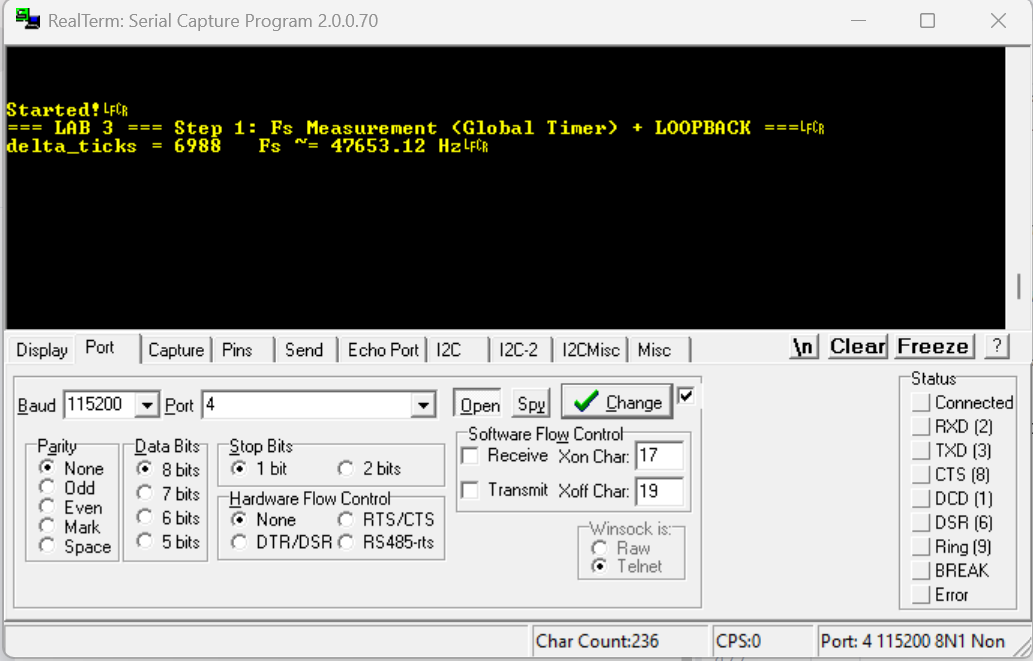
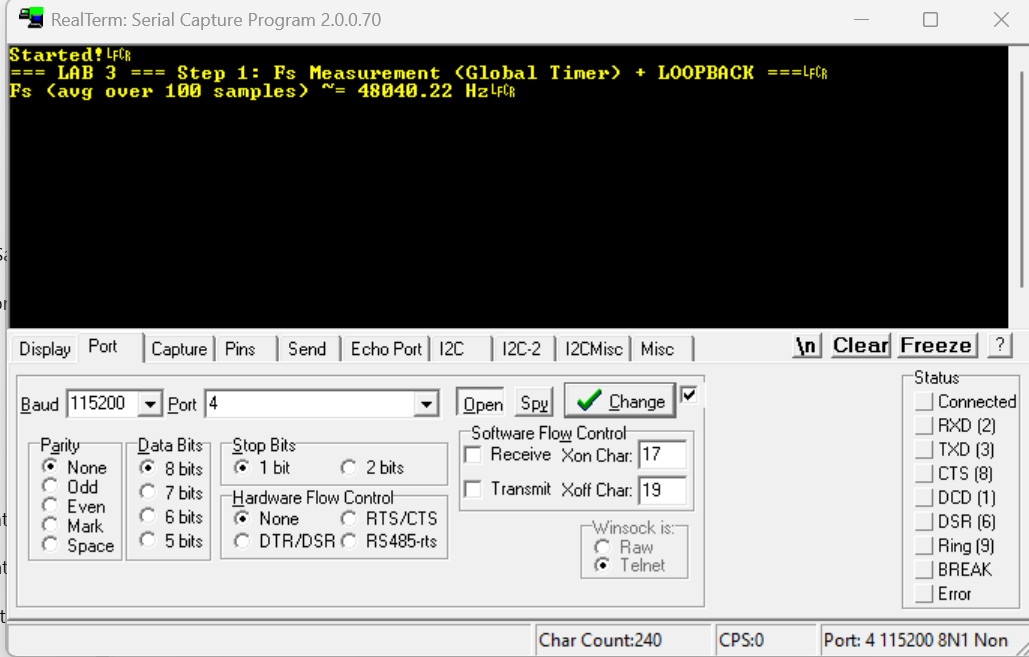
update lab3 STEP 3

Changed region(s): [[0.0, 0.0, 1.0, 1.0]]

diff --git a/Lab 3/lab3_step1_loopback.c b/Lab 3/lab3_step1_loopback.c
@@ -126,7 +126,8 @@
 #define GLOBAL_TMR_BASEADDR          XPAR_PS7_GLOBALTIMER_0_S_AXI_BASEADDR
 
 #define GTIMER_CONTROL_OFFSET        0x08   // Offset of the Global Timer control register (enable, auto-increment)
-#define GLOBAL_TMR_FREQ              333000000  // Global Timer clock frequency: CPU/2 = 333 MHz
+#define CPU_FREQ_HZ        667000000   // ARM Cortex-A9 CPU frequency
+#define GLOBAL_TMR_FREQ    (CPU_FREQ_HZ / 2)   // Global Timer = CPU / 2
 
 /* --------------------------------------------------------------------------
  *  GLOBAL TIMER – ENABLE & READOUT
@@ -312,7 +313,7 @@ return data;
 }
 
 
-// FIR FIFO initialized not used in STEP 1
+// FIR FIFO initialized not used in STEP 1 kept for Step 2–3
 
 void initialize_FIFO(u32 fifoAddr){
 	Xil_Out32(AUDIO_FIFO + 0x2c, 0);
@@ -381,6 +382,10 @@ int main()
 
     u32 t0 = 0, t1 = 0;   // timer snapshots
     int j = 0;            // loop counter for delayed measurement
+    #define N_SAMPLES  100        // number of samples used for Fs averaging
+
+    u64 accum_ticks = 0;          // accumulator for timer deltas
+    int sample_cnt = 0;           // number of measured deltas
 
 
     /* --------------------------------------------------------------------------
@@ -399,86 +404,101 @@ int main()
 
     while (1)
     {
-        /* Read one stereo sample from the I²S RX FIFO */
+        /* ----------------------------------------------------------------------
+         *  AUDIO ACQUISITION (BLOCKING)
+         *
+         *  One stereo audio frame (Left + Right) is synchronously acquired
+         *  from the I²S RX FIFO. The blocking behavior guarantees that
+         *  samples are processed at the exact rate imposed by the codec,
+         *  which is a necessary condition for reliable timing measurements
+         *  and real-time audio loopback.
+         * ---------------------------------------------------------------------- */
         u32 L = I2SFifoRead(AUDIO_FIFO);
         u32 R = I2SFifoRead(AUDIO_FIFO);
 
-        /**************************************************************************
-         * CORRECT READOUT OF THE 32-BIT (LSB) GLOBAL TIMER COUNTER
+        /* ----------------------------------------------------------------------
+         *  SAMPLING FREQUENCY MEASUREMENT (Fs)
          *
-         *  In the reference code provided by the instructor:
-         *      times[0] = Xil_In32(GLOBAL_TMR_BASEADDR);
+         *  The sampling period is measured using the ARM Cortex-A9 Global
+         *  Timer by computing the elapsed timer ticks between two consecutive
+         *  audio frames. To improve measurement robustness and reduce jitter,
+         *  the measurement is averaged over N_SAMPLES consecutive periods.
          *
-         *  → This reads the *base address*, which corresponds to the CONTROL
-         *    register, not the counter. Since the CONTROL register does not
-         *    increment, the returned value is always 0 → no valid measurement.
-         *
-         *  Correct approach:
-         *      Xil_In32(GLOBAL_TMR_BASEADDR + GTIMER_COUNTER_LOWER_OFFSET)
-         *
-         *  This retrieves the actual tick count from the lower 32 bits
-         *  of the Global Timer.
-         **************************************************************************/
-
-        /* ------------------------------------------------------------------
-         *  CORRECT TIMER READOUT (required by the assignment)
-         *
-         *  The counter LSB is mapped at:
-         *
-         *      GLOBAL_TMR_BASEADDR + GTIMER_COUNTER_LOWER_OFFSET
-         *
-         *  The base address alone must never be used.
-         * ------------------------------------------------------------------ */
-
-        if (j == 300)
+         *  A delay of j >= 300 iterations is introduced to ensure that:
+         *    • the audio pipeline is fully initialized
+         *    • transient effects at startup are avoided
+         * ---------------------------------------------------------------------- */
+        if (j >= 300 && sample_cnt < N_SAMPLES)
+        {
+            /* Timer snapshot at the beginning of one sampling period */
             t0 = Xil_In32(GLOBAL_TMR_BASEADDR + GTIMER_COUNTER_LOWER_OFFSET);
 
-        if (j == 301)
-        {
+            /* ------------------------------------------------------------------
+             *  Acquisition of the next stereo frame.
+             *
+             *  The time elapsed between t0 and t1 corresponds to exactly one
+             *  sampling period Ts imposed by the I²S/codec subsystem.
+             * ------------------------------------------------------------------ */
+            u32 L_tmp = I2SFifoRead(AUDIO_FIFO);
+            u32 R_tmp = I2SFifoRead(AUDIO_FIFO);
+
+            /* Timer snapshot at the end of the sampling period */
             t1 = Xil_In32(GLOBAL_TMR_BASEADDR + GTIMER_COUNTER_LOWER_OFFSET);
-            u32 delta = t1 - t0;
 
-            /**********************************************************************
-             * CORRECT SAMPLING FREQUENCY (Fs) COMPUTATION
-             *
-             *  CPU clock      = 667 MHz
-             *  Global Timer   = CPU/2 = 333 MHz
-             *
-             *  Therefore:
-             *      1 tick = 1 / 333e6 ≈ 3 ns
-             *
-             *  Sampling frequency:
-             *      Fs = TIMER_CLOCK / delta
-             *         = 333 MHz / delta
-             *
-             **********************************************************************/
+            /* Accumulate elapsed timer ticks for averaging */
+            accum_ticks += (t1 - t0);
+            sample_cnt++;
 
+            /* Forward the additionally acquired samples to preserve continuity
+             * of the real-time audio stream during the measurement phase */
+            I2SFifoWrite(AUDIO_FIFO, L_tmp);
+            I2SFifoWrite(AUDIO_FIFO, R_tmp);
+        }
 
-            float Fs = (float)GLOBAL_TMR_FREQ / (float)delta;
+        /* ----------------------------------------------------------------------
+         *  FINAL Fs COMPUTATION AND REPORTING
+         *
+         *  The average sampling period is computed as:
+         *
+         *      avg_delta = accum_ticks / N_SAMPLES
+         *
+         *  Since the Global Timer runs at CPU_FREQUENCY / 2, the sampling
+         *  frequency is obtained as:
+         *
+         *      Fs = GLOBAL_TMR_FREQ / avg_delta
+         *
+         *  UART output is performed only once, outside the timing-critical
+         *  measurement window, to avoid perturbing the results.
+         * ---------------------------------------------------------------------- */
+        if (sample_cnt == N_SAMPLES)
+        {
+            float avg_delta = (float)accum_ticks / (float)N_SAMPLES;
+            float Fs = (float)GLOBAL_TMR_FREQ / avg_delta;
+
             int Fs100 = (int)(Fs * 100);
-
-            /**********************************************************************
-             * NON-INTRUSIVE PRINTING
-             *
-             *  In the initial version, printing inside initialization functions
-             *  introduced significant delays → invalid measurements.
-             *
-             *  Now printing occurs only after t0 and t1 are collected, ensuring
-             *  no interference with the timing-critical section.
-             **********************************************************************/
-
-            xil_printf("delta_ticks = %u   Fs ~= %d.%02d Hz\n\r",
-                       delta,
+            xil_printf("Fs (avg over %d samples) ~= %d.%02d Hz\n\r",
+                       N_SAMPLES,
                        Fs100 / 100,
                        Fs100 % 100);
 
+            /* Prevent further printing */
+            sample_cnt++;
         }
 
-        /* Audio passthrough (loopback) */
+        /* ----------------------------------------------------------------------
+         *  REAL-TIME AUDIO LOOPBACK
+         *
+         *  The originally acquired stereo sample is immediately forwarded
+         *  to the I²S TX FIFO, implementing a direct IN → OUT passthrough.
+         *  This confirms correct end-to-end operation of the audio chain:
+         *
+         *      ADC → I²S RX → CPU → I²S TX → DAC
+         * ---------------------------------------------------------------------- */
         I2SFifoWrite(AUDIO_FIFO, L);
         I2SFifoWrite(AUDIO_FIFO, R);
 
-        if (j <= 301) j++;
+        /* Loop iteration counter */
+        j++;
     }
 
     cleanup_platform();

diff --git a/Lab 3/lab3_step2_fir.c b/Lab 3/lab3_step2_fir.c
@@ -188,7 +188,7 @@ float HP[]={coeffHP};
 
 #include "TestVector.h"
 #define TEST_LEN_250 (sizeof(test_input) / sizeof(test_input[0]))
-#define FIR_TESTVECTOR_MODE 1   // 1 = run self-test only, 0 = normal real-time
+#define FIR_TESTVECTOR_MODE 0   // 1 = run self-test only, 0 = normal real-time
 #define FIR_BUF_LEN 29   // max(N_LP_AGG=29, N_HP_AGG=25, N_HP=21, N_LP=20)
 
 

diff --git a/Lab 3/README.md b/Lab 3/README.md
@@ -84,51 +84,79 @@ Lab 3/
 
 ## **Implementations Summary**
 
+
+
 ### 🔹 **(1) Step 1 – Loopback (`lab3_step1_loopback.c`)**
 
-Implements a raw passthrough of audio samples:
+Implements a raw real-time passthrough of audio samples:
 
-1. Initialize the codec (I2C)
-2. Configure I2S @ 48 kHz
-3. Read Left/Right samples from RX FIFO
-4. Immediately write them to TX FIFO (no processing)
+1. Initialize the SSM2603 audio codec via **I²C**
+2. Configure the AXI-I2S interface (nominal **48 kHz** sampling rate)
+3. Read interleaved **Left / Right** samples from the RX FIFO (blocking)
+4. Immediately forward samples to the TX FIFO (**no processing**)
+
+This step validates the complete audio chain:
+
+**ADC → I²S RX → CPU → I²S TX → DAC**
+
+---
 
 ### **Sampling Frequency Estimation**
 
-Using the Global Timer:
+The effective sampling frequency is measured using the **ARM Cortex-A9 Global Timer**, clocked at **CPU/2 = 333 MHz**.
+
+Only the **lower 32 bits** of the Global Timer counter are used:
 
 ```c
 u32 t = Xil_In32(GLOBAL_TMR_BASEADDR + GTIMER_COUNTER_LOWER_OFFSET);
 ```
 
-The sampling frequency is computed as:
+To improve robustness and reduce jitter, the measurement is **averaged over N consecutive sampling periods**.
+
+The procedure is:
 
 ```
-delta_ticks = t[n+1] − t[n]
-Fs     = 333e6 / delta_ticks
+delta_ticks_avg = ( Σ ( t[n+1] − t[n] ) ) / N
+Fs = GLOBAL_TMR_FREQ / delta_ticks_avg
 ```
+
+where:
+
+* `GLOBAL_TMR_FREQ = 333 MHz`
+* `N = 100` samples
+
+UART output is performed **only after the measurement phase**, ensuring that serial I/O does not perturb the timing.
 
 ---
-Measured Output
 
+### **Measured Output**
+
+```
+Fs (avg over 100 samples) ~= 48040.22 Hz
+```
 
 <p align="center">
-  <img src="../img/lab3/Lab3_step1.png" alt="Photo taken during AES Lab" width="650"/>
+  <img src="../img/lab3/Lab3_step1.png" alt="Measured UART output" width="650"/>
 </p>
-<p align="center"><i>Measured Output: frequency is approximately 47.7 kHz </i></p>
-
-
-The measured value is slightly lower than the nominal 48 kHz due to:
-
-- Integer clock dividers
-
-- Asynchronous clock domains (PL vs PS)
-
-- Finite timer resolution
-
-The result confirms correct and stable audio subsystem configuration.
+<p align="center"><i>Measured sampling frequency using Global Timer (average over 100 samples)</i></p>
 
 ---
+
+### **Discussion**
+
+The measured sampling frequency is **very close to the nominal 48 kHz**, with a deviation of approximately **+0.08%**.
+
+This small discrepancy is expected and can be attributed to:
+
+* Integer clock dividers in the audio clocking chain
+* PLL and clock synthesis tolerances
+* Finite resolution of the Global Timer
+* Minor clock domain interactions between **PL (I²S)** and **PS (CPU)**
+
+The result confirms that the audio subsystem is **correctly configured, stable, and operating at the expected sampling rate**.
+
+---
+
 
 ### 🔹 **(2) Step 2 – FIR Audio Filtering (`lab3_step2_fir.c`)**
 
@@ -193,7 +221,7 @@ Code snippet:
 
 
 <p align="center">
-  <img src="../img/lab3/Lab3_step2_1.png" alt="Filter selection via board switches" width="650"/>
+  <img src="../img/lab3/Lab3_step2.png" alt="Filter selection via board switches" width="650"/>
 </p>
 <p align="center"><i>Filter selection via board switches</i></p>
 
@@ -236,7 +264,7 @@ When **instruction and data caches are disabled**, execution time increases, pro
 Output Example:
 
 <p align="center">
-  <img src="../img/lab3/Lab3_step2_3.png" alt="FIR timing results via UART" width="650"/>
+  <img src="../img/lab3/Lab3_step3.png" alt="FIR timing results via UART" width="650"/>
 </p>
 <p align="center"><i>UART output showing FIR execution-time measurement using the Global Timer</i></p>
 
